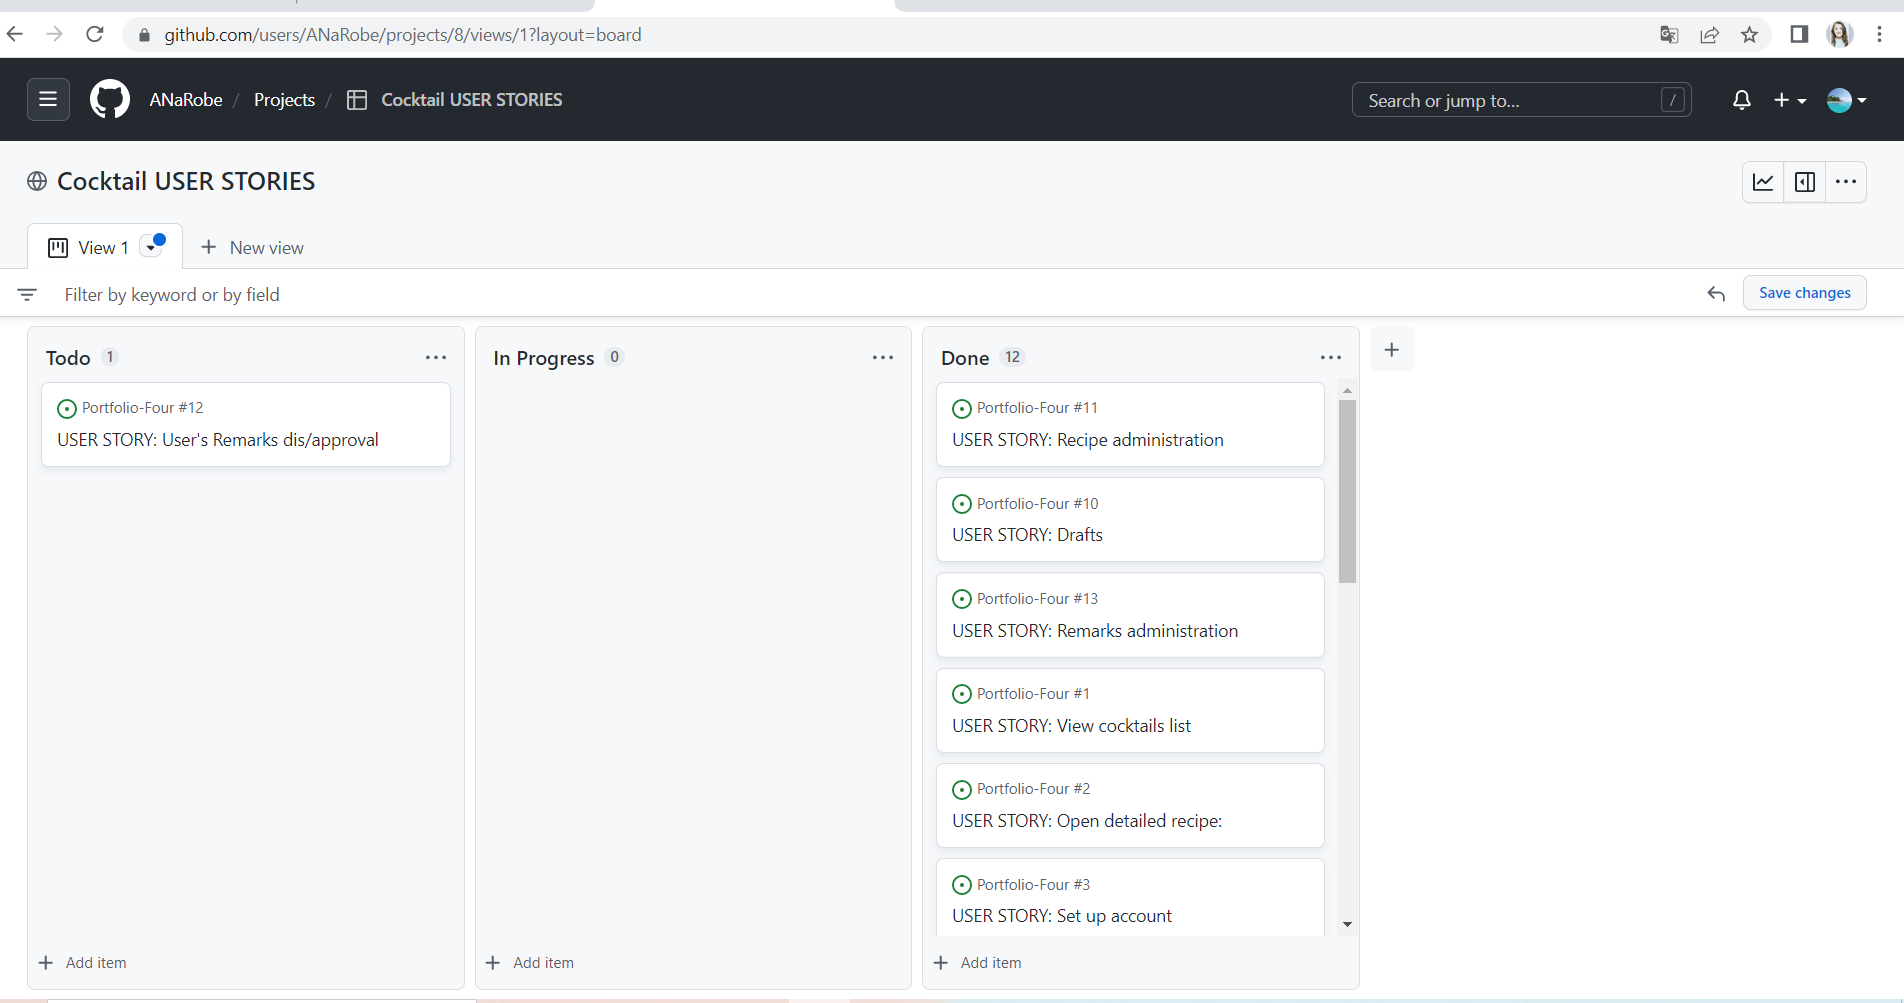
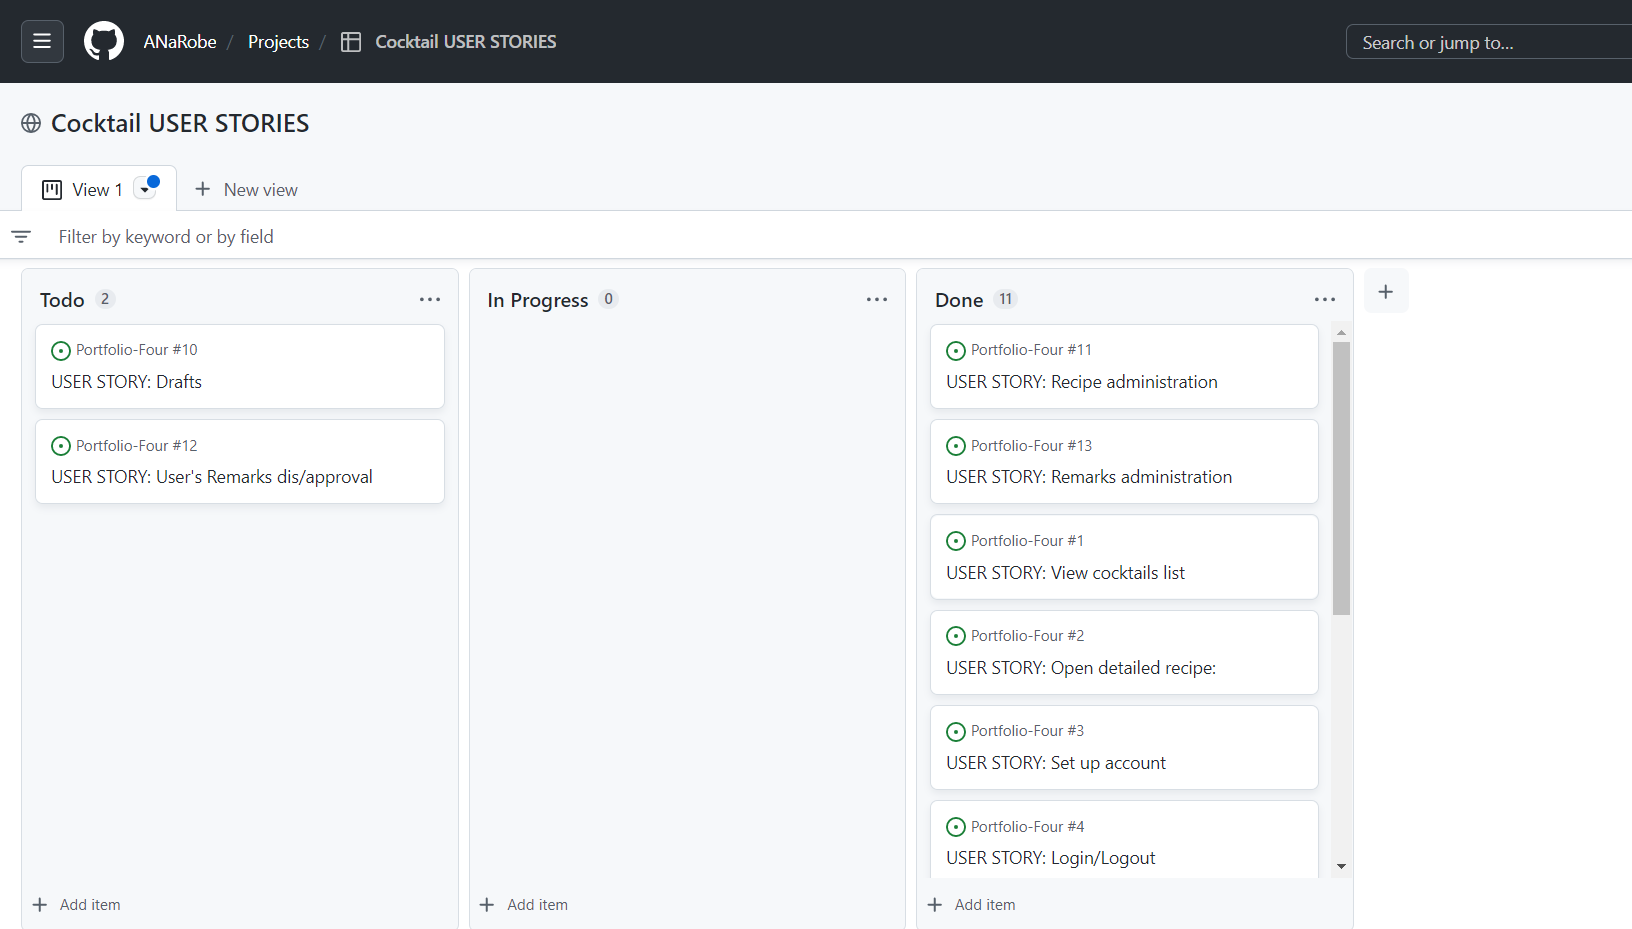
remove the status field from Cocktail model

diff --git a/base/views.py b/base/views.py
@@ -27,7 +27,7 @@ def search_cocktails(request):
 class CocktailsList(ListView):
     context_object_name = "cocktails"
     model = Cocktail
-    queryset = Cocktail.objects.filter(status=1).order_by("-publish_date")
+    queryset = Cocktail.objects.order_by("-publish_date")
     template_name = "index.html"
     paginate_by = 6
 
@@ -35,7 +35,7 @@ class CocktailsList(ListView):
 class CocktailDetail(View):
 
     def get(self, request, slug, *args, **kwargs):
-        queryset = Cocktail.objects.filter(status=1)
+        queryset = Cocktail.objects
         cocktail = get_object_or_404(queryset, slug=slug)
         remarks = cocktail.remarks.order_by("-publish_date")
         liked = False
@@ -54,7 +54,7 @@ class CocktailDetail(View):
         )
 
     def post(self, request, slug, *args, **kwargs):
-        queryset = Cocktail.objects.filter(status=1)
+        queryset = Cocktail.objects
         cocktail = get_object_or_404(queryset, slug=slug)
         remarks = cocktail.remarks.order_by("publish_date")
         liked = False
@@ -99,7 +99,7 @@ class CocktailCreate(LoginRequiredMixin, SuccessMessageMixin, CreateView):
 class CocktailEdit(LoginRequiredMixin, UserPassesTestMixin, SuccessMessageMixin, UpdateView):
     template_name = 'edit.html'
     form_class = CocktailForm
-    queryset = Cocktail.objects.filter(status=1)
+    queryset = Cocktail.objects
     success_message = 'Successfully Updated Cocktail'
 
     def test_func(self):
@@ -110,7 +110,7 @@ class CocktailEdit(LoginRequiredMixin, UserPassesTestMixin, SuccessMessageMixin,
 class CocktailDelete(LoginRequiredMixin, UserPassesTestMixin, SuccessMessageMixin, DeleteView):
     model = Cocktail
     template_name = 'cocktail_confirm_delete.html'
-    queryset = Cocktail.objects.filter(status=1)
+    queryset = Cocktail.objects
     success_url = reverse_lazy('home')
     success_message = 'Successfully Removed Cocktail'
 

diff --git a/base/models.py b/base/models.py
@@ -7,7 +7,6 @@ from django.core.validators import MinValueValidator, MaxValueValidator
 from django.urls import reverse
 from django.utils.text import slugify
 
-STATUS = ((0, 'Draft'), (1, 'Published'))
 
 
 class Cocktail(models.Model):
@@ -21,7 +20,6 @@ class Cocktail(models.Model):
     ingredients = models.TextField(null=False, blank=False)
     steps = models.TextField(null=False, blank=False)
     mixing_time = models.PositiveIntegerField(default=0, validators=[MinValueValidator(0), MaxValueValidator(60)])
-    status = models.IntegerField(choices=STATUS, default=1)
     publish_date = models.DateTimeField(auto_now=True)
     last_update = models.DateTimeField(auto_now=True)
 

diff --git a/base/admin.py b/base/admin.py
@@ -8,9 +8,9 @@ from django_summernote.admin import SummernoteModelAdmin
 class CocktailAdmin(SummernoteModelAdmin):
 
     prepopulated_fields = {'slug': ('title', )}
-    list_filter = ('status', 'publish_date')
+    list_filter = ('publish_date', )
     summernote_fields = ('ingredients', 'steps')
-    list_display = ('title', 'slug', 'status', 'publish_date')
+    list_display = ('title', 'slug', 'publish_date')
     search_fields = ['title', 'ingredients']
 
 

diff --git a/base/migrations/0006_remove_cocktail_status.py b/base/migrations/0006_remove_cocktail_status.py
@@ -1,0 +1,17 @@
+# Generated by Django 3.2.15 on 2022-12-07 15:34
+
+from django.db import migrations
+
+
+class Migration(migrations.Migration):
+
+    dependencies = [
+        ('base', '0005_auto_20221111_1029'),
+    ]
+
+    operations = [
+        migrations.RemoveField(
+            model_name='cocktail',
+            name='status',
+        ),
+    ]

diff --git a/README.md b/README.md
@@ -83,8 +83,8 @@ Through the use of the Kanban board in the projects view in Github, the project 
 *Issues* were used to create User Stories with a custom template. Eash user story is clearly described with a title, statement, acceptance criteria and tasks.They were there not only to record User Stories but also used to FIX, UPDATE and record DOCUMENTATION updates as well.
 Each user story was linked to an Epic and placed within one of three Iterations. 
 
-As it can be notice, one story remained undone. According with the Agile principles, during development I have found myself in the position to try to implement a functionality that would not serve the user experience, morover would interrupt the flowof user interraction if the approval would have been at hte end implemented. Therefore, this ticket will be in stand by.
-Until other automated  method will be chosen, the admin will have to delete the content which breakes the website's guidelines.
+As it can be notice, two stories remained undone. According with the Agile principles, during development I have found myself in the position to try to implement a functionality that would not serve the user experience as I expected. Morover it would interrupt the flow of user interraction if the approval would have been at the end implemented. Therefore, the tickets will remain in stand by till othe decision will be made.
+Until other automated  method will be chosen, the admin will have to manualy delete the content which breakes the website's guidelines.
 
 
 EPIC| ADMIN

diff --git a/TESTING.md b/TESTING.md
@@ -149,7 +149,7 @@ There were instances when the performance droped under 80% and I have tried to f
 
 #### **Mobile**
 
-![Cocktail Page Mobile Lighthoue Validation](documentation/images/testing/)
+![Cocktail Page Mobile Lighthoue Validation](documentation/images/testing/lighthouse_mobile_cocktail.PNG)
 
 ### My Cocktails Page
 
